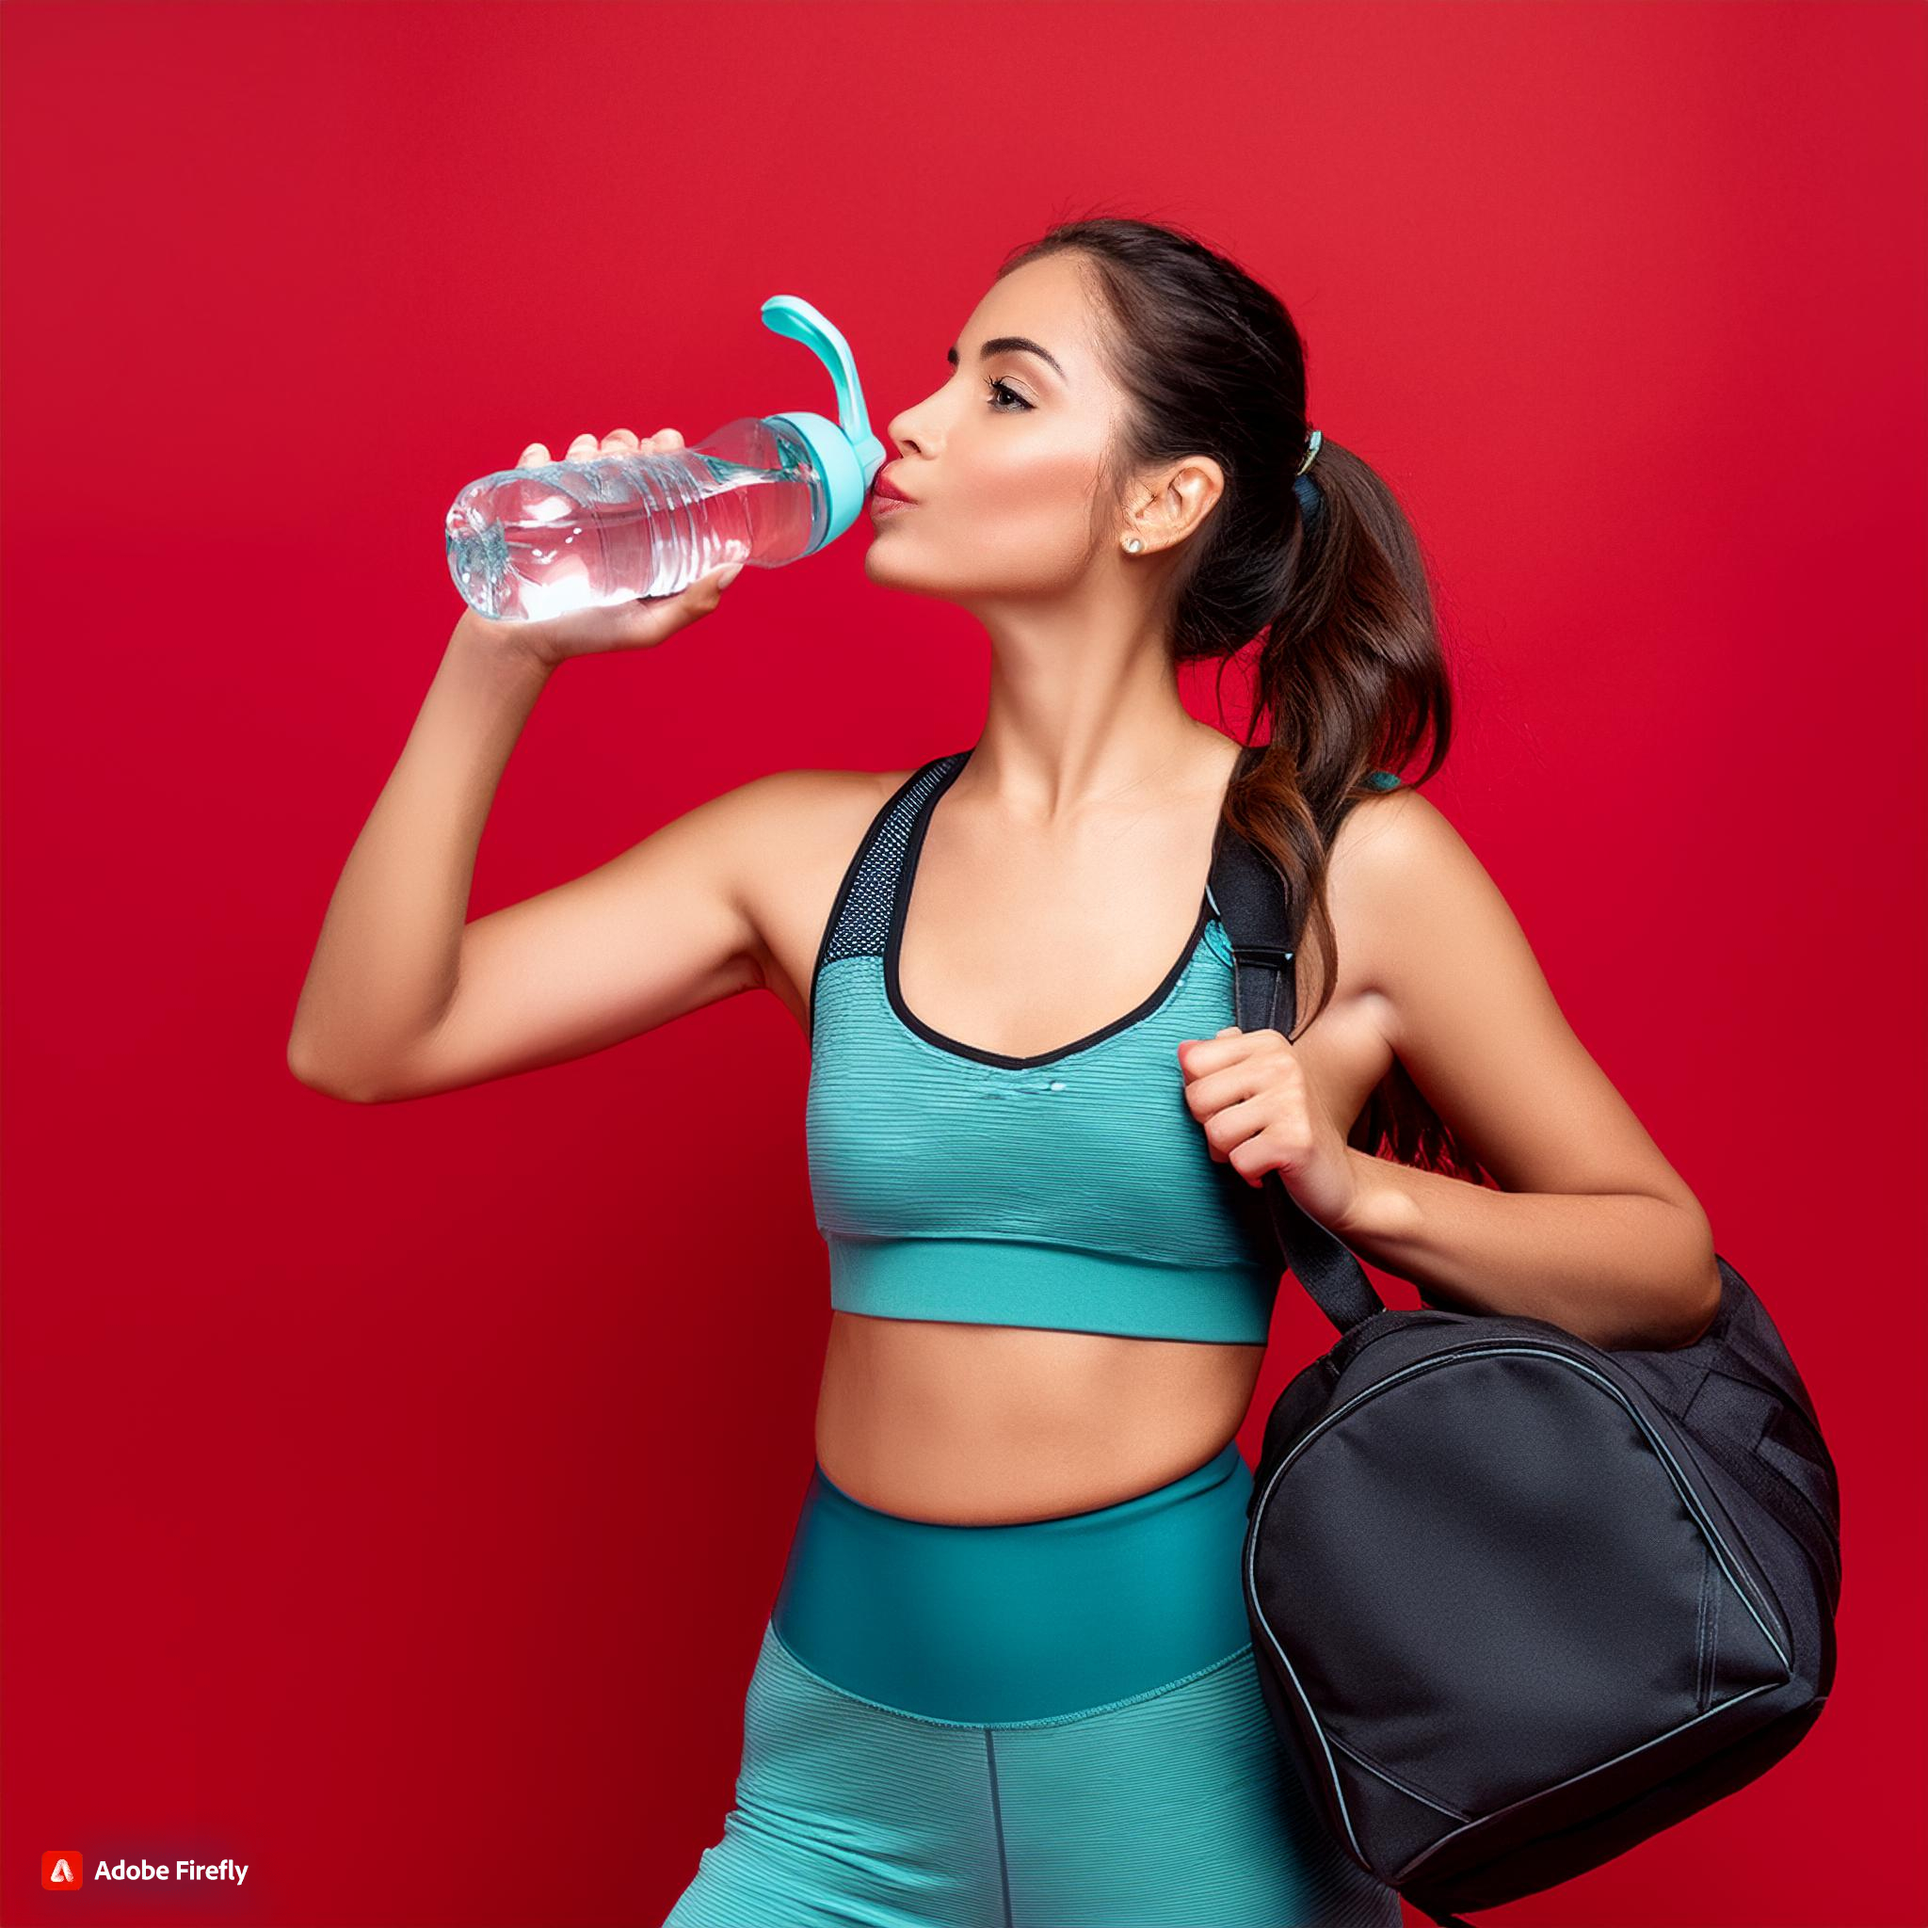
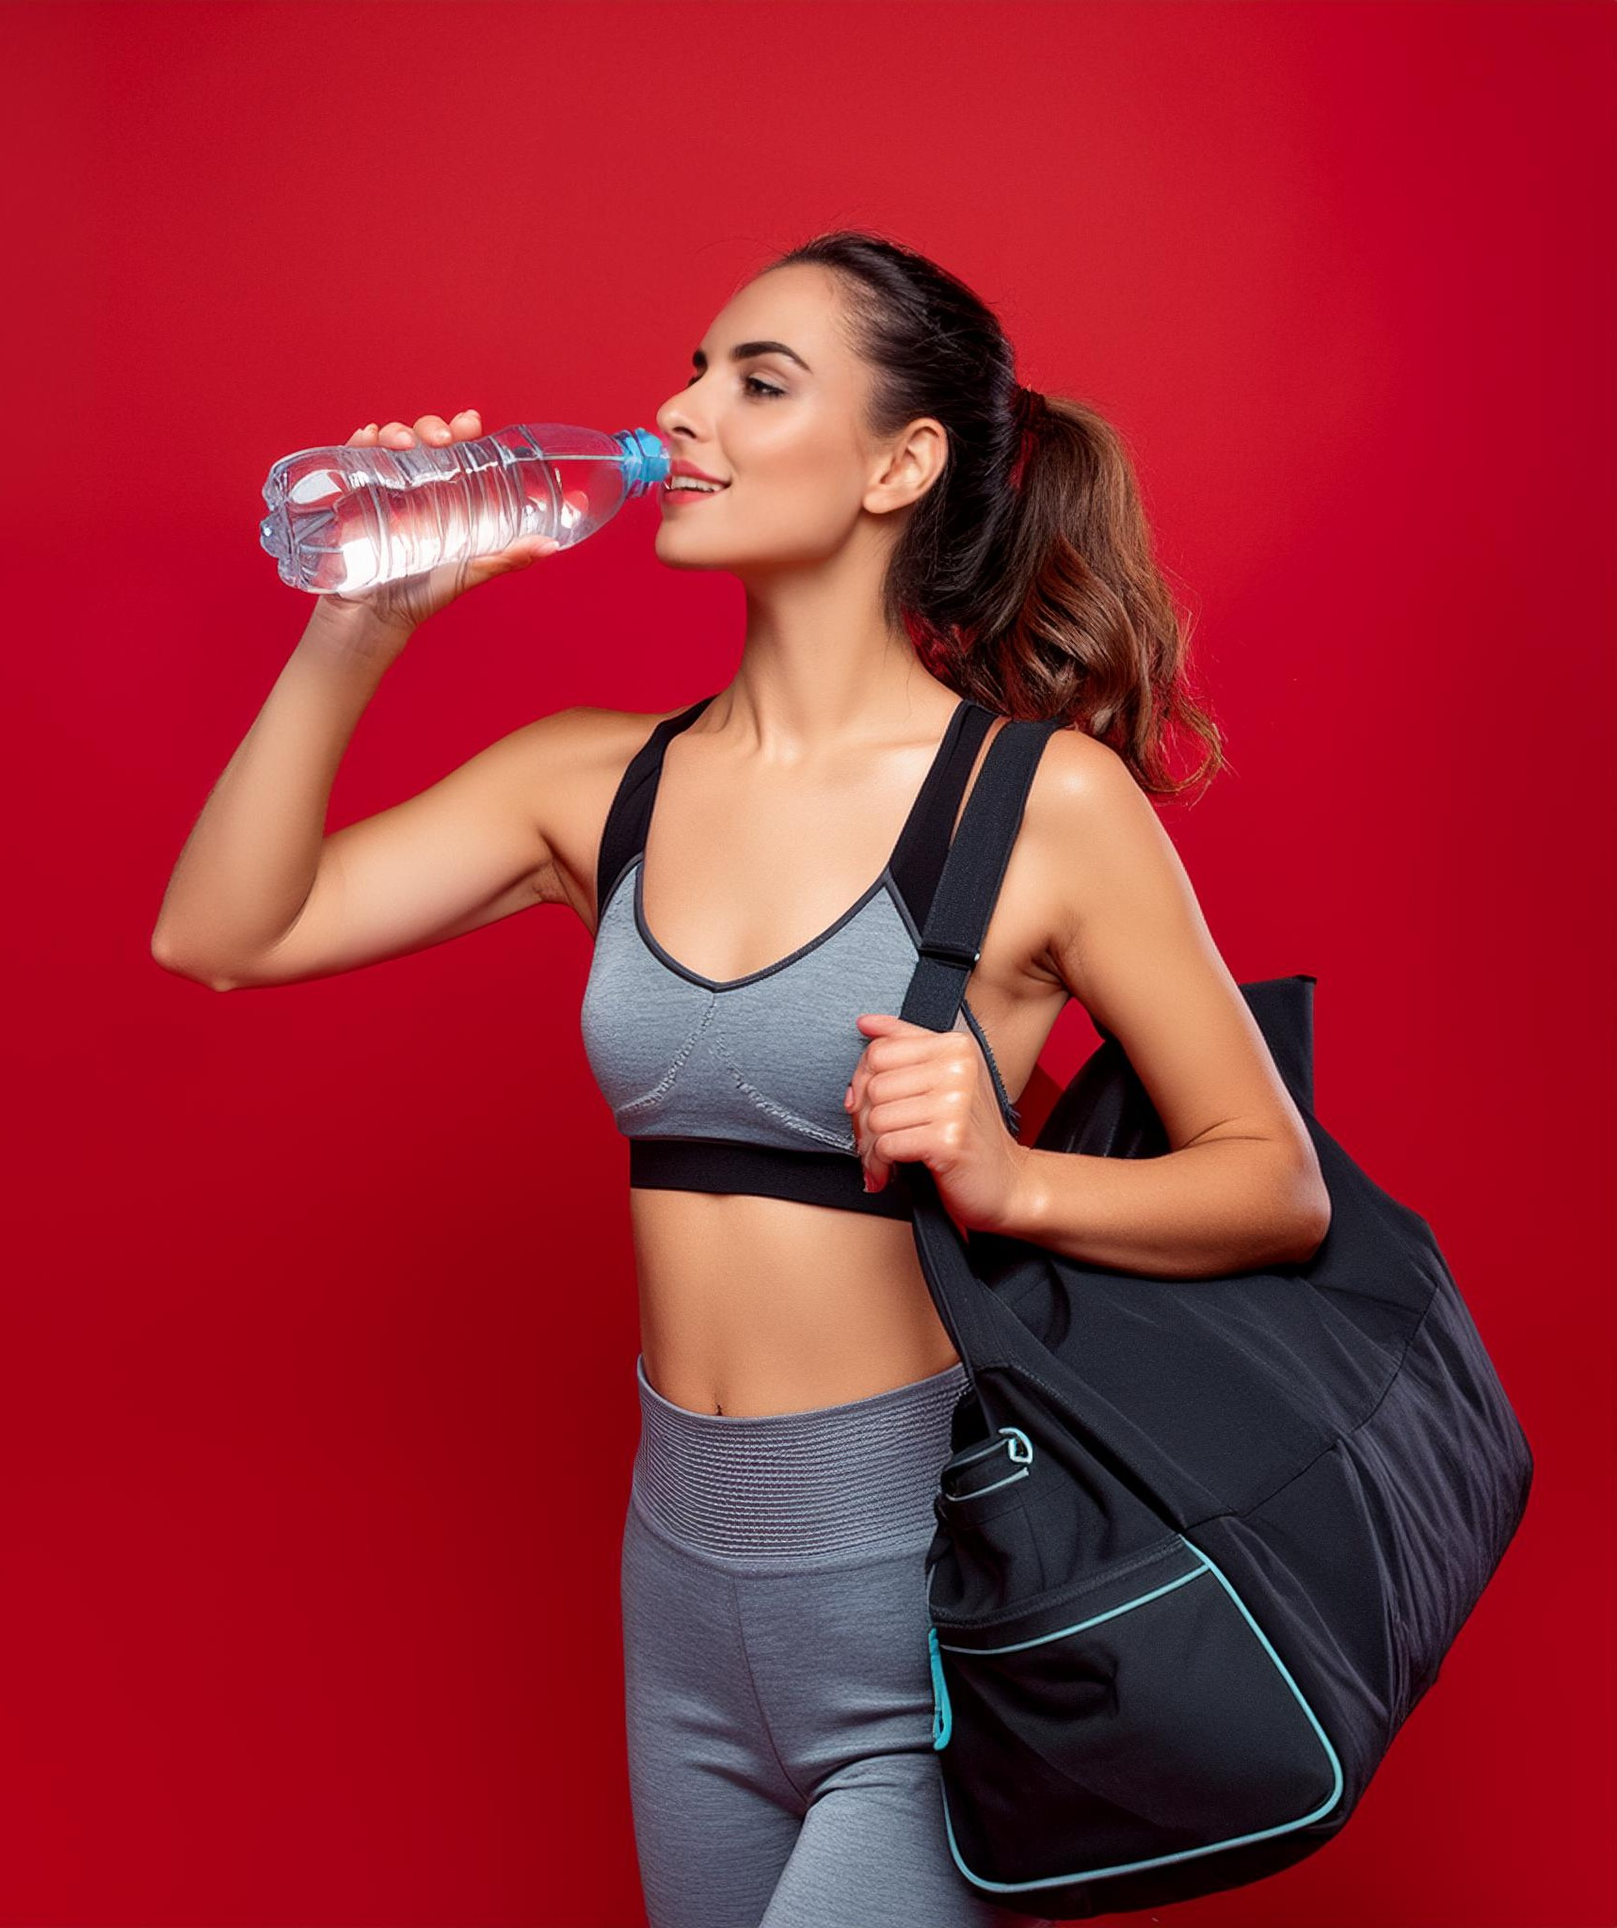
first commit

diff --git a/public/index.html b/public/index.html
@@ -2,7 +2,7 @@
 <html lang="en">
   <head>
     <meta charset="utf-8" />
-    <link rel="icon" href="%PUBLIC_URL%/favicon.ico" />
+    <link rel="icon" href="%PUBLIC_URL%/Logo.png" />
     <meta name="viewport" content="width=device-width, initial-scale=1" />
     <meta name="theme-color" content="#000000" />
     <meta

diff --git a/src/components/HeroBanner.js b/src/components/HeroBanner.js
@@ -1,7 +1,7 @@
 import React from 'react';
 import { Box, Stack, Typography } from '@mui/material';
 
-import HeroBannerImage from '../assets/images/gym-girl-3.jpg';
+import HeroBannerImage from '../assets/images/gym-girl.jpg';
 import './RotatingHexagon.css'
 
 const HeroBanner = () => (
